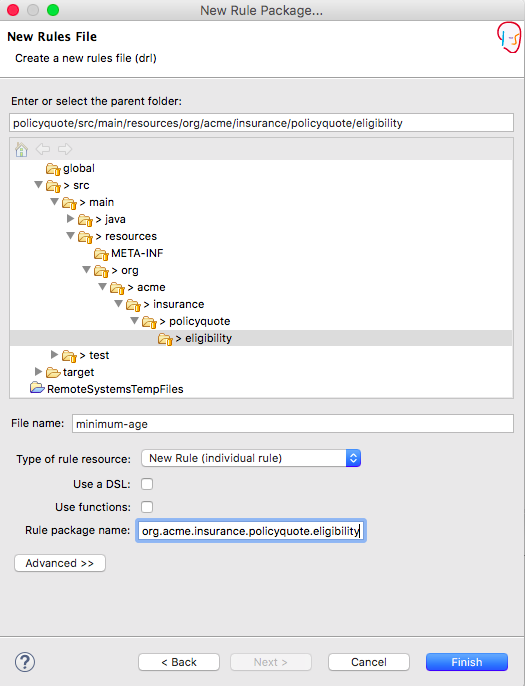
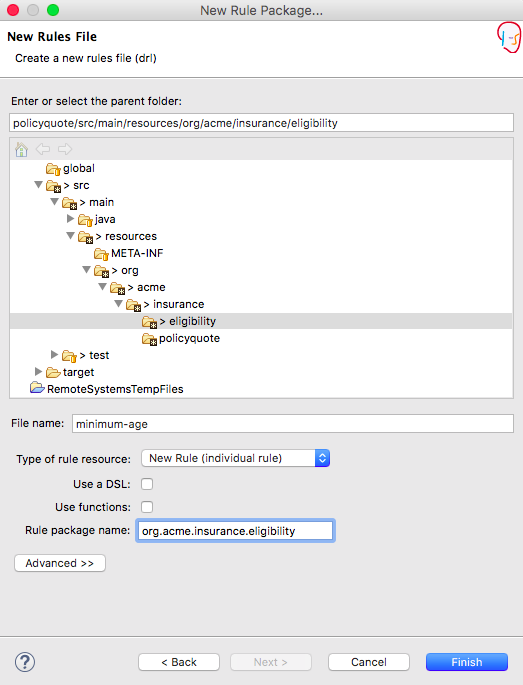
Fixed screen captures

diff --git a/extras/lab4/EligibilityRulesTest.java b/extras/lab4/EligibilityRulesTest.java
@@ -1,4 +1,4 @@
-package org.acme.insurance.policyquote.eligibility;
+package org.acme.insurance.eligibility;
 
 import static org.junit.Assert.assertEquals;
 
